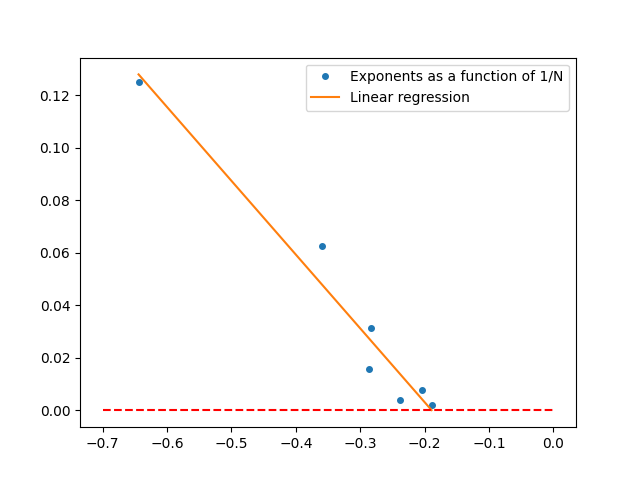
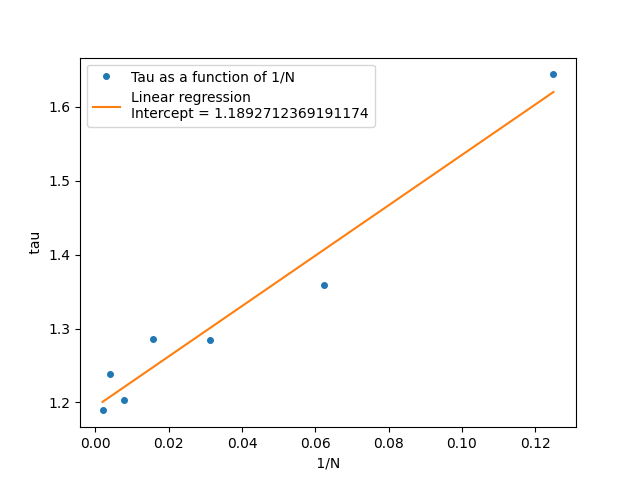
DONE

diff --git a/HW2/PlotGraphs.py b/HW2/PlotGraphs.py
@@ -210,13 +210,12 @@ def task4():
         part_axis7.append(x_axis7[i])
     exponents[6], pcov = curve_fit(exp_func, part_rel_fire7, part_axis7)
 
-    tau = np.zeros((len(exponents), 1))
+    tau = np.zeros((len(exponents), 2))
     for i in range(len(exponents)):
-        tau[i] = 1 - exponents[i, 1]
+        tau[i, 1] = 1 - exponents[i, 1]
     
     inverted_N = [1/8, 1/16, 1/32, 1/64, 1/128, 1/256, 1/512]
 
-    print(tau)
 
     plt.figure()
     plt.xlabel('Relative fire size')
@@ -232,16 +231,16 @@ def task4():
     plt.xlim(10**(-5), 10**(1))
     plt.title('p = 0.001    f = 0.05        p/f = 0.02')
     plt.figure()
-    plt.plot(exponents[:, 1], inverted_N, linestyle='none', marker='o', markersize=4, label='Exponents as a function of 1/N')
-    z = Polynomial.fit(exponents[:, 1], inverted_N, 1)
-    plt.plot(*z.linspace(), label='Linear regression')
-    xs = np.linspace(-0.7, 0)
-    ys = np.zeros((len(xs), 1))
-    plt.plot(xs, ys, linestyle='--', color='red')
+    plt.plot(inverted_N, tau[:, 1], linestyle='none', marker='o', markersize=4, label='Tau as a function of 1/N')
+    plt.xlabel(' 1/N ')
+    plt.ylabel(' tau ')
+    z = Polynomial.fit(inverted_N, tau[:, 1], 1)
+    intercept = tau[6, 1] - inverted_N[6]*1/999999999
+    plt.plot(*z.linspace(), label='Linear regression' + '\nIntercept = ' + str(intercept))
     plt.legend()
     plt.show()
 
-task2()
+#task2()
 #task3_1()
 #task3_2()
-#task4()
+task4()

diff --git a/HW2/ForestFires.py b/HW2/ForestFires.py
@@ -165,6 +165,7 @@ class ForestFires:
                 while(np.sum(self.fire) == 0):
                     (x, y) = self.random_position()
                     self.burn_tree(x, y)
+                print("TEST")
                 done = False
                 while not done:
                     burning_trees_x = np.where(self.fire == 1)[0]
@@ -257,7 +258,7 @@ def task2_INIT():
     savetxt("fires_p" + str(SOC.p) + "_f" + str(SOC.f) + "_INIT.csv", asarray(SOC.burned_cluster_data), delimiter=',')
 
 def task2():
-    SOC = ForestFires(N=128, p=0.001, f=0.05, GLOBE=True, SNAPSHOT=False)
+    SOC = ForestFires(N=128, p=0.001, f=1, GLOBE=True, SNAPSHOT=False)
     for i in range(10000):
         SOC.step_size_dist(DRAW=False)
         print("TIME STEP: " + str(i + 1))
